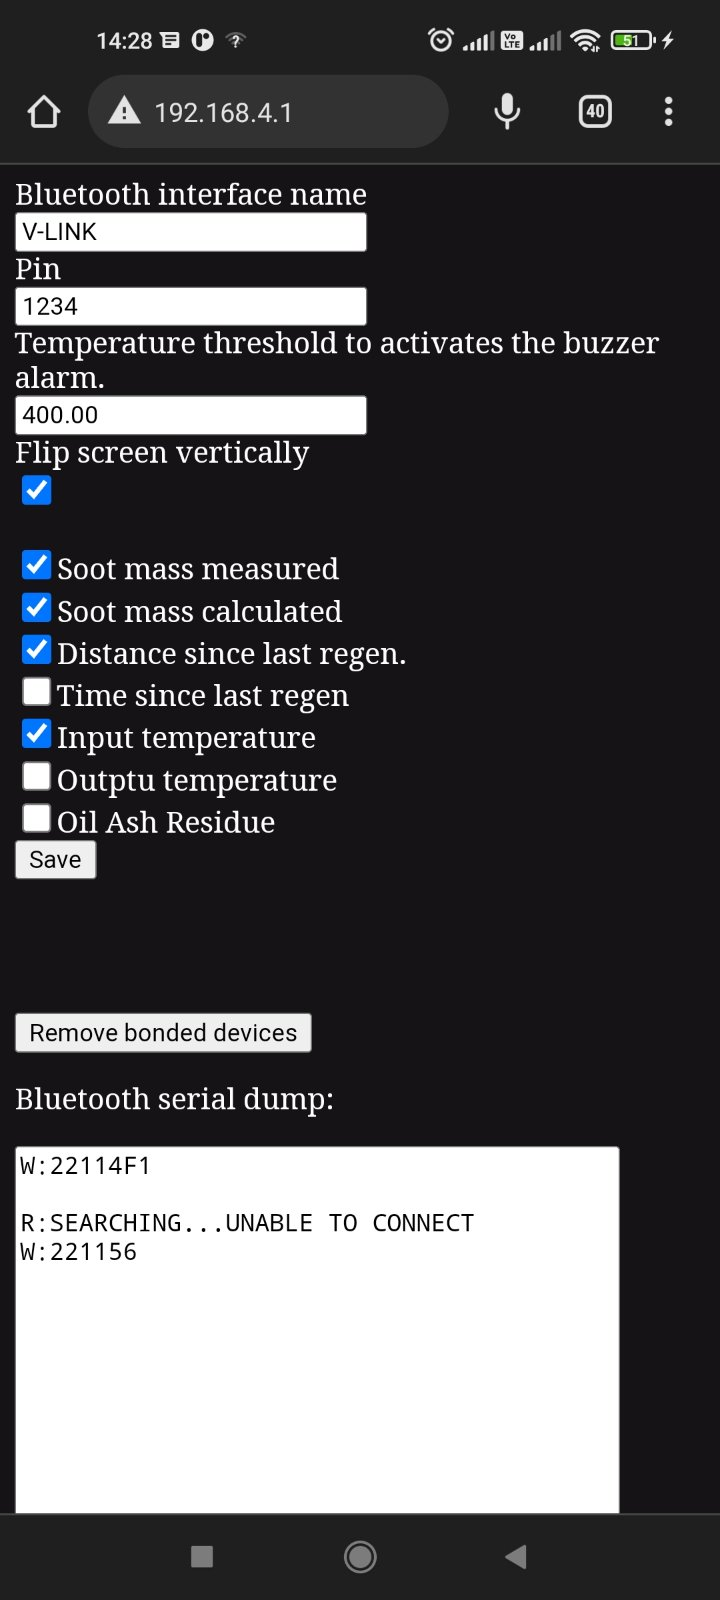
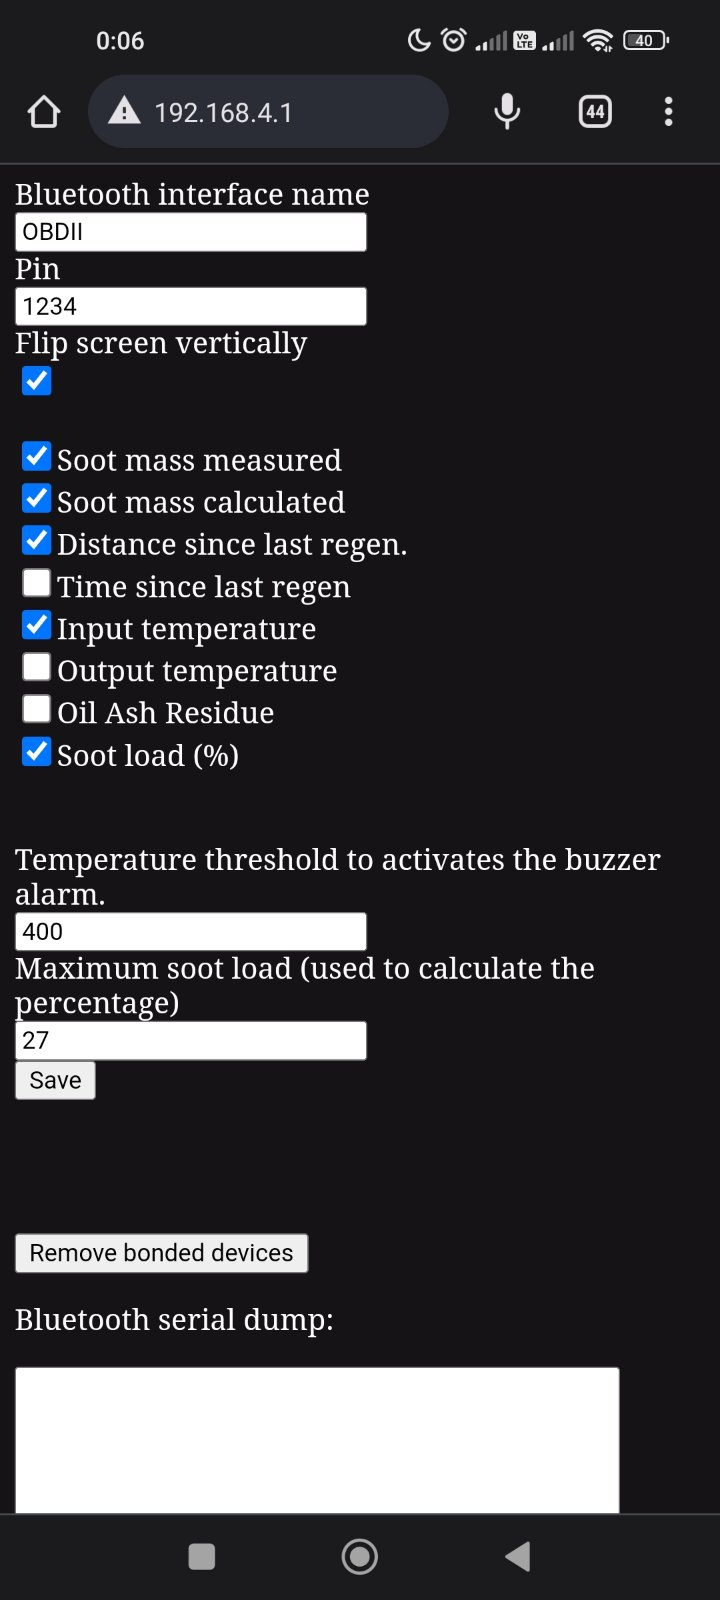
docs: Update documentation after adding new feature

diff --git a/README.pl.md b/README.pl.md
@@ -48,13 +48,14 @@ Urządznie łączy się z interfejsem OBD po Bluetooth i wyświetla informacje o
 
 Wyświetlane są następujące parametry:
 
-* Zmierzona masa sadzy (smm)
-* Wyliczona masa sadzy (smc)
-* Dystans od ostatniej regeneracji (dslr)
-* Czas od ostatniej regeneracji (tslr)
-* Pozostałość popiołu olejowego (oar)
-* Temperatura wejściowa (itemp)
-* Temperatura wyjściowa (otemp)
+* Zmierzona masa sadzy (Soot mass measured)
+* Wyliczona masa sadzy (Soot mass calculated)
+* Dystans od ostatniej regeneracji (Distance since last regeneration)
+* Czas od ostatniej regeneracji (Time since last regeneration)
+* Pozostałość popiołu olejowego (Oil Ash Residue)
+* Temperatura wejściowa (Input temperature)
+* Temperatura wyjściowa (Output temperature)
+* Procentowa wartość zapełnienia filtra (Soot load (%))
 
 
 Dane odświeżane są co 10 sekund. Po prawej stronie wyświetlacza zaznaczany jest prawidłowy `V` lub nieprawidłowy `X` odczyt danego parametru.
@@ -85,7 +86,13 @@ Wyboru płytki dokonujemy w pliku `platformio.ini` pozostawiając odkomentowaną
 ;-DWEMOS_BOARD
 ```
 
-Opcjonalnie można dodać buzzer (z generatorem) który informuje o momencie rozpoczęcia oraz zakończenia wypalania DPF. Buzzer należy wpiąc pomiędzy pin GND oraz D12.
+Opcjonalnie można dodać buzzer (z generatorem) który informuje o:
+- momencie rozpoczęcia oraz zakończenia wypalania DPF
+- przekroczeniu progu 80% zapełnienia filtra
+
+Buzzer należy wpiąc pomiędzy pin GND oraz D12.
+
+![buzzer](/docs/buzzer.png)
 
 <p align="right">(<a href="#top">powrót do góry</a>)</p>
 
@@ -138,6 +145,12 @@ Po połączeniu się i wejściu na adres 192.168.4.1 mamy możliwość podejrzen
 
 Przycisk 'Remove bonded devices' rozpoczyna procedurę usunięcia sparowanych urządzeń Bluetooth w module ESP32.
 Jest to przydatne w momencie występienia błędu podczas łączenia. A problem pojawia się, gdy do interfejsu OBD połączymy się z telefonu, a następnie ponownie chcemy połączyć się za pomocą urządzenia.
+
+Pole `Temperature threshold to activates the buzzer alarm.` (Próg temperatury po którym załączany jest alarm) jest aktywne dopiero po zaznaczeniu opcji odczytu Temperatury wejściowej `Input temperature`.
+Wartość domyślna to 400. Histereza wynosi 10°C. Zatem załączenie buzzera nastąpi po przekroczeniu 410°C, a jego wyłączenie gdy temperatura wejściowa spadnie poniżej 390°C.
+
+Pole `Maximum soot load (used to calculate the percentage)` (Maksymalna wartość sadzy - wyliczonej. (używana do wyliczania procentowej wartości zapełnienia filtra)) jest aktywne dopiero po zaznaczeniu opcji `Soot load (%)`. Wartość domyślna to 80% zapełnienia. Histereza wynosi 1%.
+Alarm z buzzera uruchamia się po przekroczeniu 79% zapełnienia filtra i jest odtwarzany tylko raz.
 
 <p align="right">(<a href="#top">powrót do góry</a>)</p>
 

diff --git a/README.md b/README.md
@@ -48,13 +48,14 @@ The device connects to the OBD interface via Bluetooth and displays DPF status i
 
 The following parameters are displayed:
 
-* Soot mass measured (smm)
-* Soot mass calculated (smc)
-* Distance since last regeneration (dslr)
-* Time since last regeneration (tslr)
-* Oil Ash Residue (oar)
-* Input temperature (itemp)
-* Output temperature (otemp)
+* Soot mass measured
+* Soot mass calculated
+* Distance since last regeneration
+* Time since last regeneration
+* Oil Ash Residue
+* Input temperature
+* Output temperature
+* Soot load (%)
 
 
 The data is refreshed every 10 seconds. On the right side of the display, a correct `V` or incorrect `X` reading of a given parameter is marked.
@@ -85,7 +86,13 @@ The board selection is made in the `platformio.ini` file by leaving one of the o
 ;-DWEMOS_BOARD
 ```
 
-Optionally, you can add a buzzer (with a generator) that informs you when the DPF regeneration starts and stops. The buzzer should be connected between the GND and D12 pins.
+Optionally, you can add a buzzer (with a generator) that informs you when:
+- the DPF regeneration starts and stops
+- after exceeding 80% filter fill
+
+The buzzer should be connected between the GND and D12 pins.
+
+![buzzer](/docs/buzzer.png)
 
 <p align="right">(<a href="#top">back to top</a>)</p>
 
@@ -138,6 +145,12 @@ After connecting and accessing the 192.168.4.1 address, we have the ability to p
 
 The 'Remove bonded devices' button starts the procedure for removing paired Bluetooth devices on the ESP32 module.
 This is useful when a connection error occurs. And the problem occurs when you connect to the OBD interface from your phone, and then want to connect again using the device.
+
+The `Temperature threshold to activates the buzzer alarm` field is active only when the `Input temperature` reading option is selected.
+The default value is 400. The hysteresis is 10°C. Thus, the buzzer will turn on when the input temperature exceeds 410°C, and turn off when the input temperature decreases below 390°C.
+
+The `Maximum soot load (used to calculate the percentage)` field is active only when the `Soot load (%)` option is checked. The default value is 80% full. The hysteresis is 1%.
+The buzzer alarm is triggered when the filter exceeds 79% full and is played only once.
 
 <p align="right">(<a href="#top">back to top</a>)</p>
 
